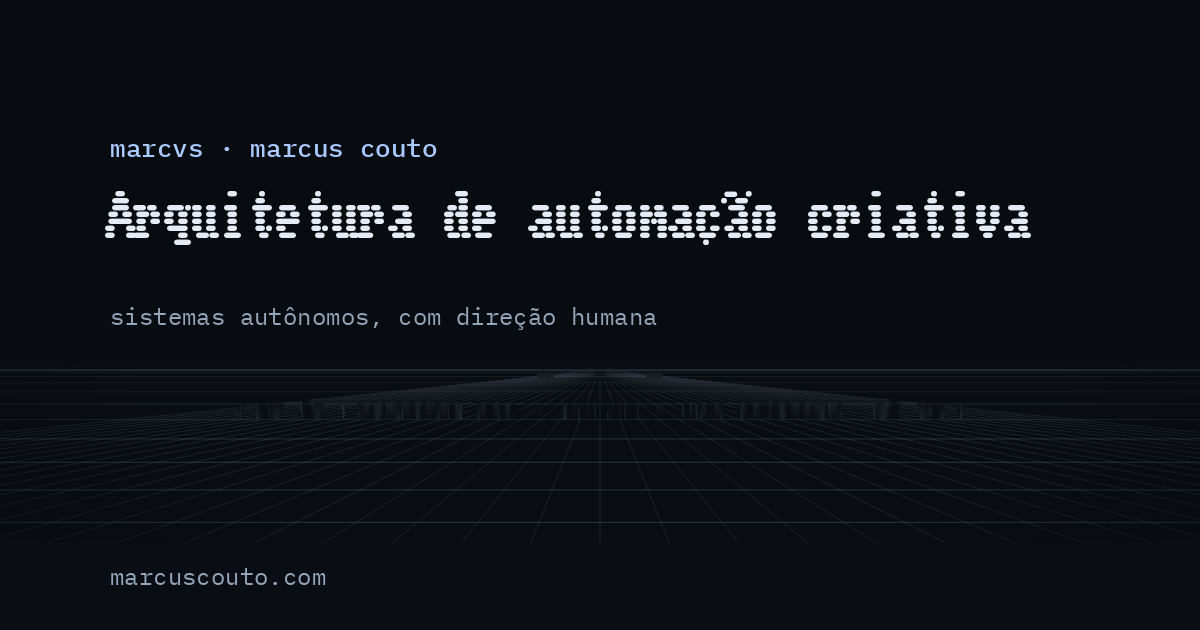
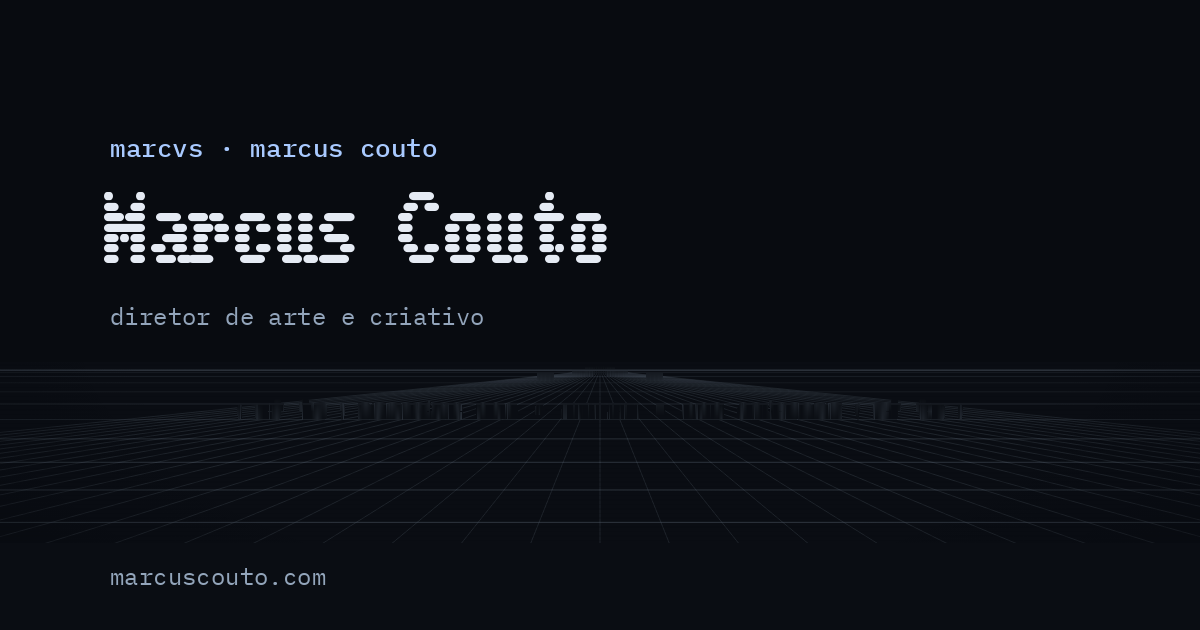
Home com apresentação, seção Projetos e subhome Sistemas
- Home: destaque passa a ser a apresentação ("Sou Marcus Couto, diretor de arte e criativo.")
- Sistemas vira Projetos na home e no menu, com sigilo de engrenagem (animação girando)
- Nova página /sistemas/ com a frase "Arquitetura de automação criativa" e os três sistemas
- og:image da home atualizada e nova para /sistemas/

Claude-Session: https://claude.ai/code/session_01FrUhFbahMPFfCPa88AS5v2

Changed region(s): [[0.0617, 0.3016, 0.8633, 0.4222], [0.0925, 0.4825, 0.555, 0.5127]]

diff --git a/index.html b/index.html
@@ -3,8 +3,8 @@
 <head>
 <meta charset="utf-8">
 <meta name="viewport" content="width=device-width, initial-scale=1">
-<title>Marcus Couto · marcvs — Arquitetura de automação criativa</title>
-<meta name="description" content="Marcus Couto (marcvs): arquitetura de automação criativa. Sistemas autônomos, com direção humana, para times criativos de todos os tamanhos.">
+<title>Marcus Couto · marcvs — Diretor de arte e criativo</title>
+<meta name="description" content="Marcus Couto (marcvs), diretor de arte e criativo. Desenha sistemas de produção com IA e investiga o que sobra para quem dirige quando executar deixa de ser difícil.">
 <meta name="theme-color" content="#080b10">
 <link rel="canonical" href="https://marcuscouto.com/">
 <link rel="alternate" hreflang="pt-BR" href="https://marcuscouto.com/">
@@ -12,8 +12,8 @@
 <meta property="og:locale" content="pt_BR">
 <meta property="og:site_name" content="Marcus Couto">
 <meta property="og:url" content="https://marcuscouto.com/">
-<meta property="og:title" content="Marcus Couto · marcvs — Arquitetura de automação criativa">
-<meta property="og:description" content="Marcus Couto (marcvs): arquitetura de automação criativa. Sistemas autônomos, com direção humana, para times criativos de todos os tamanhos.">
+<meta property="og:title" content="Marcus Couto · marcvs — Diretor de arte e criativo">
+<meta property="og:description" content="Marcus Couto (marcvs), diretor de arte e criativo. Desenha sistemas de produção com IA e investiga o que sobra para quem dirige quando executar deixa de ser difícil.">
 <meta property="og:image" content="https://marcuscouto.com/assets/img/og/home.png">
 <meta property="og:image:width" content="1200">
 <meta property="og:image:height" content="630">
@@ -33,7 +33,10 @@
 <header data-site-header></header>
 <script src="/assets/js/layout.js"></script>
 <main id="main">
-<h1 class="phrase">Arquitetura de automação criativa: sistemas autônomos, com direção humana, para times criativos de todos os tamanhos.</h1>
+<div class="intro">
+  <h1 class="phrase">Sou Marcus Couto, diretor de arte e criativo.</h1>
+  <p class="intro-lead">Desenho sistemas de produção com IA, de jornais que se escrevem sozinhos a séries audiovisuais no UOL, e investigo o que sobra para quem dirige quando executar deixa de ser difícil.</p>
+</div>
 <div class="home-sections">
   <section class="home-section l0" id="pesquisa" aria-labelledby="h-pesquisa">
     <svg class="sigil sigil-pesquisa" viewBox="0 0 78 78" aria-hidden="true" focusable="false" fill="currentColor"><rect x="6.75" y="6.75" width="4.5" height="4.5" style="--d:2.88s"/><rect x="36.75" y="6.75" width="4.5" height="4.5" style="--d:2.88s"/><rect x="66.75" y="6.75" width="4.5" height="4.5" style="--d:2.88s"/><rect x="18.75" y="18.75" width="4.5" height="4.5" style="--d:1.73s"/><rect x="36.75" y="18.75" width="4.5" height="4.5" style="--d:1.73s"/><rect x="54.75" y="18.75" width="4.5" height="4.5" style="--d:1.73s"/><rect x="24.75" y="24.75" width="4.5" height="4.5" style="--d:1.15s"/><rect x="36.75" y="24.75" width="4.5" height="4.5" style="--d:1.15s"/><rect x="48.75" y="24.75" width="4.5" height="4.5" style="--d:1.15s"/><rect x="30.75" y="30.75" width="4.5" height="4.5" style="--d:0.58s"/><rect x="36.75" y="30.75" width="4.5" height="4.5" style="--d:0.58s"/><rect x="42.75" y="30.75" width="4.5" height="4.5" style="--d:0.58s"/><rect x="6.75" y="36.75" width="4.5" height="4.5" style="--d:2.88s"/><rect x="12.75" y="36.75" width="4.5" height="4.5" style="--d:2.30s"/><rect x="24.75" y="36.75" width="4.5" height="4.5" style="--d:1.15s"/><rect x="30.75" y="36.75" width="4.5" height="4.5" style="--d:0.58s"/><rect x="36.75" y="36.75" width="4.5" height="4.5" style="--d:0.00s"/><rect x="42.75" y="36.75" width="4.5" height="4.5" style="--d:0.58s"/><rect x="48.75" y="36.75" width="4.5" height="4.5" style="--d:1.15s"/><rect x="60.75" y="36.75" width="4.5" height="4.5" style="--d:2.30s"/><rect x="66.75" y="36.75" width="4.5" height="4.5" style="--d:2.88s"/><rect x="30.75" y="42.75" width="4.5" height="4.5" style="--d:0.58s"/><rect x="36.75" y="42.75" width="4.5" height="4.5" style="--d:0.58s"/><rect x="42.75" y="42.75" width="4.5" height="4.5" style="--d:0.58s"/><rect x="24.75" y="48.75" width="4.5" height="4.5" style="--d:1.15s"/><rect x="36.75" y="48.75" width="4.5" height="4.5" style="--d:1.15s"/><rect x="48.75" y="48.75" width="4.5" height="4.5" style="--d:1.15s"/><rect x="18.75" y="54.75" width="4.5" height="4.5" style="--d:1.73s"/><rect x="36.75" y="54.75" width="4.5" height="4.5" style="--d:1.73s"/><rect x="54.75" y="54.75" width="4.5" height="4.5" style="--d:1.73s"/><rect x="6.75" y="66.75" width="4.5" height="4.5" style="--d:2.88s"/><rect x="36.75" y="66.75" width="4.5" height="4.5" style="--d:2.88s"/><rect x="66.75" y="66.75" width="4.5" height="4.5" style="--d:2.88s"/></svg>
@@ -50,16 +53,14 @@
       </ul>
     </div>
   </section>
-  <section class="home-section l1" id="sistemas" aria-labelledby="h-sistemas">
-    <svg class="sigil sigil-sistemas" viewBox="0 0 78 78" aria-hidden="true" focusable="false" fill="currentColor"><rect x="30.75" y="6.75" width="4.5" height="4.5" style="--d:0.00s"/><rect x="36.75" y="6.75" width="4.5" height="4.5" style="--d:0.00s"/><rect x="42.75" y="6.75" width="4.5" height="4.5" style="--d:0.00s"/><rect x="30.75" y="12.75" width="4.5" height="4.5" style="--d:0.32s"/><rect x="36.75" y="12.75" width="4.5" height="4.5" style="--d:0.32s"/><rect x="42.75" y="12.75" width="4.5" height="4.5" style="--d:0.32s"/><rect x="30.75" y="18.75" width="4.5" height="4.5" style="--d:0.64s"/><rect x="36.75" y="18.75" width="4.5" height="4.5" style="--d:0.64s"/><rect x="42.75" y="18.75" width="4.5" height="4.5" style="--d:0.64s"/><rect x="24.75" y="24.75" width="4.5" height="4.5" style="--d:0.96s"/><rect x="48.75" y="24.75" width="4.5" height="4.5" style="--d:0.96s"/><rect x="18.75" y="30.75" width="4.5" height="4.5" style="--d:1.28s"/><rect x="54.75" y="30.75" width="4.5" height="4.5" style="--d:1.28s"/><rect x="12.75" y="36.75" width="4.5" height="4.5" style="--d:1.60s"/><rect x="60.75" y="36.75" width="4.5" height="4.5" style="--d:1.60s"/><rect x="6.75" y="42.75" width="4.5" height="4.5" style="--d:1.92s"/><rect x="66.75" y="42.75" width="4.5" height="4.5" style="--d:1.92s"/><rect x="0.75" y="48.75" width="4.5" height="4.5" style="--d:2.24s"/><rect x="6.75" y="48.75" width="4.5" height="4.5" style="--d:2.24s"/><rect x="12.75" y="48.75" width="4.5" height="4.5" style="--d:2.24s"/><rect x="60.75" y="48.75" width="4.5" height="4.5" style="--d:2.24s"/><rect x="66.75" y="48.75" width="4.5" height="4.5" style="--d:2.24s"/><rect x="72.75" y="48.75" width="4.5" height="4.5" style="--d:2.24s"/><rect x="0.75" y="54.75" width="4.5" height="4.5" style="--d:2.56s"/><rect x="6.75" y="54.75" width="4.5" height="4.5" style="--d:2.56s"/><rect x="12.75" y="54.75" width="4.5" height="4.5" style="--d:2.56s"/><rect x="60.75" y="54.75" width="4.5" height="4.5" style="--d:2.56s"/><rect x="66.75" y="54.75" width="4.5" height="4.5" style="--d:2.56s"/><rect x="72.75" y="54.75" width="4.5" height="4.5" style="--d:2.56s"/><rect x="0.75" y="60.75" width="4.5" height="4.5" style="--d:2.88s"/><rect x="6.75" y="60.75" width="4.5" height="4.5" style="--d:2.88s"/><rect x="12.75" y="60.75" width="4.5" height="4.5" style="--d:2.88s"/><rect x="60.75" y="60.75" width="4.5" height="4.5" style="--d:2.88s"/><rect x="66.75" y="60.75" width="4.5" height="4.5" style="--d:2.88s"/><rect x="72.75" y="60.75" width="4.5" height="4.5" style="--d:2.88s"/></svg>
+  <section class="home-section l1" id="projetos" aria-labelledby="h-projetos">
+    <svg class="sigil sigil-projetos" viewBox="0 0 78 78" aria-hidden="true" focusable="false" fill="currentColor"><rect x="36.75" y="0.75" width="4.5" height="4.5" style="--d:1.08s"/><rect x="30.75" y="6.75" width="4.5" height="4.5" style="--d:0.94s"/><rect x="36.75" y="6.75" width="4.5" height="4.5" style="--d:1.08s"/><rect x="42.75" y="6.75" width="4.5" height="4.5" style="--d:1.22s"/><rect x="12.75" y="12.75" width="4.5" height="4.5" style="--d:0.54s"/><rect x="18.75" y="12.75" width="4.5" height="4.5" style="--d:0.64s"/><rect x="30.75" y="12.75" width="4.5" height="4.5" style="--d:0.91s"/><rect x="36.75" y="12.75" width="4.5" height="4.5" style="--d:1.08s"/><rect x="42.75" y="12.75" width="4.5" height="4.5" style="--d:1.25s"/><rect x="54.75" y="12.75" width="4.5" height="4.5" style="--d:1.52s"/><rect x="60.75" y="12.75" width="4.5" height="4.5" style="--d:1.62s"/><rect x="12.75" y="18.75" width="4.5" height="4.5" style="--d:0.44s"/><rect x="18.75" y="18.75" width="4.5" height="4.5" style="--d:0.54s"/><rect x="24.75" y="18.75" width="4.5" height="4.5" style="--d:0.68s"/><rect x="30.75" y="18.75" width="4.5" height="4.5" style="--d:0.86s"/><rect x="36.75" y="18.75" width="4.5" height="4.5" style="--d:1.08s"/><rect x="42.75" y="18.75" width="4.5" height="4.5" style="--d:1.30s"/><rect x="48.75" y="18.75" width="4.5" height="4.5" style="--d:1.48s"/><rect x="54.75" y="18.75" width="4.5" height="4.5" style="--d:1.62s"/><rect x="60.75" y="18.75" width="4.5" height="4.5" style="--d:1.72s"/><rect x="18.75" y="24.75" width="4.5" height="4.5" style="--d:0.40s"/><rect x="54.75" y="24.75" width="4.5" height="4.5" style="--d:1.76s"/><rect x="6.75" y="30.75" width="4.5" height="4.5" style="--d:0.14s"/><rect x="12.75" y="30.75" width="4.5" height="4.5" style="--d:0.17s"/><rect x="18.75" y="30.75" width="4.5" height="4.5" style="--d:0.22s"/><rect x="54.75" y="30.75" width="4.5" height="4.5" style="--d:1.94s"/><rect x="60.75" y="30.75" width="4.5" height="4.5" style="--d:1.99s"/><rect x="66.75" y="30.75" width="4.5" height="4.5" style="--d:2.02s"/><rect x="0.75" y="36.75" width="4.5" height="4.5" style="--d:4.32s"/><rect x="6.75" y="36.75" width="4.5" height="4.5" style="--d:4.32s"/><rect x="12.75" y="36.75" width="4.5" height="4.5" style="--d:4.32s"/><rect x="18.75" y="36.75" width="4.5" height="4.5" style="--d:4.32s"/><rect x="36.75" y="36.75" width="4.5" height="4.5" style="--d:0.00s"/><rect x="54.75" y="36.75" width="4.5" height="4.5" style="--d:2.16s"/><rect x="60.75" y="36.75" width="4.5" height="4.5" style="--d:2.16s"/><rect x="66.75" y="36.75" width="4.5" height="4.5" style="--d:2.16s"/><rect x="72.75" y="36.75" width="4.5" height="4.5" style="--d:2.16s"/><rect x="6.75" y="42.75" width="4.5" height="4.5" style="--d:4.18s"/><rect x="12.75" y="42.75" width="4.5" height="4.5" style="--d:4.15s"/><rect x="18.75" y="42.75" width="4.5" height="4.5" style="--d:4.10s"/><rect x="54.75" y="42.75" width="4.5" height="4.5" style="--d:2.38s"/><rect x="60.75" y="42.75" width="4.5" height="4.5" style="--d:2.33s"/><rect x="66.75" y="42.75" width="4.5" height="4.5" style="--d:2.30s"/><rect x="18.75" y="48.75" width="4.5" height="4.5" style="--d:3.92s"/><rect x="54.75" y="48.75" width="4.5" height="4.5" style="--d:2.56s"/><rect x="12.75" y="54.75" width="4.5" height="4.5" style="--d:3.88s"/><rect x="18.75" y="54.75" width="4.5" height="4.5" style="--d:3.78s"/><rect x="24.75" y="54.75" width="4.5" height="4.5" style="--d:3.64s"/><rect x="30.75" y="54.75" width="4.5" height="4.5" style="--d:3.46s"/><rect x="36.75" y="54.75" width="4.5" height="4.5" style="--d:3.24s"/><rect x="42.75" y="54.75" width="4.5" height="4.5" style="--d:3.02s"/><rect x="48.75" y="54.75" width="4.5" height="4.5" style="--d:2.84s"/><rect x="54.75" y="54.75" width="4.5" height="4.5" style="--d:2.70s"/><rect x="60.75" y="54.75" width="4.5" height="4.5" style="--d:2.60s"/><rect x="12.75" y="60.75" width="4.5" height="4.5" style="--d:3.78s"/><rect x="18.75" y="60.75" width="4.5" height="4.5" style="--d:3.68s"/><rect x="30.75" y="60.75" width="4.5" height="4.5" style="--d:3.41s"/><rect x="36.75" y="60.75" width="4.5" height="4.5" style="--d:3.24s"/><rect x="42.75" y="60.75" width="4.5" height="4.5" style="--d:3.07s"/><rect x="54.75" y="60.75" width="4.5" height="4.5" style="--d:2.80s"/><rect x="60.75" y="60.75" width="4.5" height="4.5" style="--d:2.70s"/><rect x="30.75" y="66.75" width="4.5" height="4.5" style="--d:3.38s"/><rect x="36.75" y="66.75" width="4.5" height="4.5" style="--d:3.24s"/><rect x="42.75" y="66.75" width="4.5" height="4.5" style="--d:3.10s"/><rect x="36.75" y="72.75" width="4.5" height="4.5" style="--d:3.24s"/></svg>
     <div>
-      <span class="path">/sistemas · −38m</span>
-      <h2 id="h-sistemas"><span class="stratum-label" data-glitch="hover">Sistemas</span></h2>
-      <p class="sub">prensa autômata · zombiebasilisk · uol</p>
+      <span class="path">/projetos · −38m</span>
+      <h2 id="h-projetos"><span class="stratum-label" data-glitch="hover">Projetos</span></h2>
+      <p class="sub">sistemas</p>
       <ul class="items">
-      <li><a href="/sistemas/prensa-automata/">Prensa Autômata</a></li>
-      <li><a href="/sistemas/zombiebasilisk/">ZOMBIEBASILISK</a></li>
-      <li><a href="/sistemas/uol/">UOL</a></li>
+      <li><a href="/sistemas/">Sistemas</a><ul class="items items-sub"><li><a href="/sistemas/prensa-automata/">Prensa Autômata</a></li><li><a href="/sistemas/zombiebasilisk/">ZOMBIEBASILISK</a></li><li><a href="/sistemas/uol/">UOL</a></li></ul></li>
       </ul>
     </div>
   </section>

diff --git a/sistemas/index.html b/sistemas/index.html
@@ -1,0 +1,54 @@
+<!doctype html>
+<html lang="pt-BR">
+<head>
+<meta charset="utf-8">
+<meta name="viewport" content="width=device-width, initial-scale=1">
+<title>Sistemas — Marcus Couto</title>
+<meta name="description" content="Arquitetura de automação criativa: sistemas autônomos, com direção humana, para times criativos de todos os tamanhos. Prensa Autômata, ZOMBIEBASILISK e UOL.">
+<meta name="theme-color" content="#080b10">
+<link rel="canonical" href="https://marcuscouto.com/sistemas/">
+<link rel="alternate" hreflang="pt-BR" href="https://marcuscouto.com/sistemas/">
+<meta property="og:type" content="website">
+<meta property="og:locale" content="pt_BR">
+<meta property="og:site_name" content="Marcus Couto">
+<meta property="og:url" content="https://marcuscouto.com/sistemas/">
+<meta property="og:title" content="Sistemas — Marcus Couto">
+<meta property="og:description" content="Arquitetura de automação criativa: sistemas autônomos, com direção humana, para times criativos de todos os tamanhos. Prensa Autômata, ZOMBIEBASILISK e UOL.">
+<meta property="og:image" content="https://marcuscouto.com/assets/img/og/sistemas.png">
+<meta property="og:image:width" content="1200">
+<meta property="og:image:height" content="630">
+<meta name="twitter:card" content="summary_large_image">
+<link rel="icon" href="/favicon.ico" sizes="any">
+<link rel="icon" type="image/png" href="/assets/img/favicon-32.png" sizes="32x32">
+<link rel="apple-touch-icon" href="/apple-touch-icon.png">
+<link rel="preconnect" href="https://fonts.googleapis.com">
+<link rel="preconnect" href="https://fonts.gstatic.com" crossorigin>
+<link href="https://fonts.googleapis.com/css2?family=Doto:wght@900&family=IBM+Plex+Mono:wght@300;400;500&family=Workbench:BLED,SCAN@0..100,-53..100&display=swap" rel="stylesheet">
+<link rel="stylesheet" href="/assets/css/tokens.css">
+<link rel="stylesheet" href="/assets/css/base.css">
+</head>
+<body>
+<a class="skip-link" href="#main">Pular para o conteúdo</a>
+<div id="page" class="shell">
+<header data-site-header></header>
+<script src="/assets/js/layout.js"></script>
+<main id="main">
+<header class="page-head">
+  <div class="title-row"><svg class="sigil sigil-sistemas" viewBox="0 0 78 78" aria-hidden="true" focusable="false" fill="currentColor"><rect x="30.75" y="6.75" width="4.5" height="4.5" style="--d:0.00s"/><rect x="36.75" y="6.75" width="4.5" height="4.5" style="--d:0.00s"/><rect x="42.75" y="6.75" width="4.5" height="4.5" style="--d:0.00s"/><rect x="30.75" y="12.75" width="4.5" height="4.5" style="--d:0.32s"/><rect x="36.75" y="12.75" width="4.5" height="4.5" style="--d:0.32s"/><rect x="42.75" y="12.75" width="4.5" height="4.5" style="--d:0.32s"/><rect x="30.75" y="18.75" width="4.5" height="4.5" style="--d:0.64s"/><rect x="36.75" y="18.75" width="4.5" height="4.5" style="--d:0.64s"/><rect x="42.75" y="18.75" width="4.5" height="4.5" style="--d:0.64s"/><rect x="24.75" y="24.75" width="4.5" height="4.5" style="--d:0.96s"/><rect x="48.75" y="24.75" width="4.5" height="4.5" style="--d:0.96s"/><rect x="18.75" y="30.75" width="4.5" height="4.5" style="--d:1.28s"/><rect x="54.75" y="30.75" width="4.5" height="4.5" style="--d:1.28s"/><rect x="12.75" y="36.75" width="4.5" height="4.5" style="--d:1.60s"/><rect x="60.75" y="36.75" width="4.5" height="4.5" style="--d:1.60s"/><rect x="6.75" y="42.75" width="4.5" height="4.5" style="--d:1.92s"/><rect x="66.75" y="42.75" width="4.5" height="4.5" style="--d:1.92s"/><rect x="0.75" y="48.75" width="4.5" height="4.5" style="--d:2.24s"/><rect x="6.75" y="48.75" width="4.5" height="4.5" style="--d:2.24s"/><rect x="12.75" y="48.75" width="4.5" height="4.5" style="--d:2.24s"/><rect x="60.75" y="48.75" width="4.5" height="4.5" style="--d:2.24s"/><rect x="66.75" y="48.75" width="4.5" height="4.5" style="--d:2.24s"/><rect x="72.75" y="48.75" width="4.5" height="4.5" style="--d:2.24s"/><rect x="0.75" y="54.75" width="4.5" height="4.5" style="--d:2.56s"/><rect x="6.75" y="54.75" width="4.5" height="4.5" style="--d:2.56s"/><rect x="12.75" y="54.75" width="4.5" height="4.5" style="--d:2.56s"/><rect x="60.75" y="54.75" width="4.5" height="4.5" style="--d:2.56s"/><rect x="66.75" y="54.75" width="4.5" height="4.5" style="--d:2.56s"/><rect x="72.75" y="54.75" width="4.5" height="4.5" style="--d:2.56s"/><rect x="0.75" y="60.75" width="4.5" height="4.5" style="--d:2.88s"/><rect x="6.75" y="60.75" width="4.5" height="4.5" style="--d:2.88s"/><rect x="12.75" y="60.75" width="4.5" height="4.5" style="--d:2.88s"/><rect x="60.75" y="60.75" width="4.5" height="4.5" style="--d:2.88s"/><rect x="66.75" y="60.75" width="4.5" height="4.5" style="--d:2.88s"/><rect x="72.75" y="60.75" width="4.5" height="4.5" style="--d:2.88s"/></svg><h1><span data-glitch="hover">Sistemas</span></h1></div>
+  <p class="statement">Arquitetura de automação criativa: sistemas autônomos, com direção humana, para times criativos de todos os tamanhos.</p>
+</header>
+<section class="section" aria-label="Sistemas">
+  <ul class="entries">
+  <li class="entry"><a href="/sistemas/prensa-automata/">Prensa Autômata</a><span class="meta">jornal diário produzido por IA</span></li>
+  <li class="entry"><a href="/sistemas/zombiebasilisk/">ZOMBIEBASILISK</a><span class="meta">horror e found-footage com IA · desde fev/2025</span></li>
+  <li class="entry"><a href="/sistemas/uol/">UOL</a><span class="meta">séries audiovisuais com IA · desde set/2025</span></li>
+  </ul>
+</section>
+</main>
+<footer data-site-footer></footer>
+</div>
+<script src="/assets/js/ambient.js" defer></script>
+
+<script data-goatcounter="https://marcvs.goatcounter.com/count" async src="//gc.zgo.at/count.js"></script>
+</body>
+</html>

diff --git a/assets/css/base.css b/assets/css/base.css
@@ -86,7 +86,10 @@ main { display: block; }
 .links-row { display: flex; flex-wrap: wrap; gap: var(--space-1) var(--space-4); margin-top: var(--space-4); }
 
 /* ---- home ---- */
-.phrase { max-width: 24ch; margin: 0; padding: var(--space-6) 0 var(--space-5); font: 400 var(--fs-phrase)/1.25 var(--font-title); color: var(--ink); }
+.intro { padding: var(--space-6) 0 var(--space-5); }
+.intro-lead { max-width: 62ch; margin: var(--space-4) 0 0; color: var(--ink-2); font-size: var(--fs-l); line-height: 1.75; }
+.statement { max-width: 30ch; margin: var(--space-4) 0 0; font: 400 var(--fs-title-section)/1.3 var(--font-title); color: var(--ink-2); }
+.phrase { max-width: 24ch; margin: 0; padding: 0; font: 400 var(--fs-phrase)/1.25 var(--font-title); color: var(--ink); }
 .home-sections { border-top: 1px solid var(--rule); }
 .home-section { display: grid; grid-template-columns: 96px minmax(0, 1fr); gap: var(--space-4); padding: var(--space-4) 0; border-bottom: 1px solid var(--rule); scroll-margin-top: 24px; }
 .home-section .sigil { width: 78px; height: 78px; margin-top: 6px; }
@@ -110,11 +113,15 @@ main { display: block; }
 .items li::before { content: "├─ "; color: var(--rule); }
 .items li:last-child::before { content: "└─ "; }
 .items a { color: var(--ink-2); text-decoration: none; }
+.items-sub { margin: 4px 0 0; }
+.items-sub li::before { content: "├─ "; }
+.items-sub li:last-child::before { content: "└─ "; }
 .items a:hover { color: var(--accent); }
 .items .note { color: var(--ink-soft); font-size: var(--fs-s); }
 
 /* ---- lista de textos (pesquisa, literatura) ---- */
 .entries { list-style: none; margin: 0; padding: 0; border-top: 1px solid var(--rule); }
+.page-head + .section > .entries:first-child { margin-top: calc(-1 * var(--space-5)); border-top: 0; }
 .entry { display: grid; grid-template-columns: minmax(0, 1fr) auto; gap: var(--space-1) var(--space-4); align-items: baseline; padding: var(--space-3) 0; border-bottom: 1px solid var(--rule); }
 .entry a, .entry .title { color: var(--ink); text-decoration: none; font-weight: 500; }
 .entry a:hover { color: var(--accent); }

diff --git a/assets/js/layout.js b/assets/js/layout.js
@@ -5,7 +5,7 @@
 
   var NAV = [
     { href: '/pesquisa/', label: 'Pesquisa', match: /^\/pesquisa\// },
-    { href: '/#sistemas', label: 'Sistemas', match: /^\/sistemas\// },
+    { href: '/#projetos', label: 'Projetos', match: /^\/sistemas\// },
     { href: '/poetica/', label: 'Poética', match: /^\/poetica\// },
     { href: '/fale-comigo/', label: 'Fale comigo', match: /^\/fale-comigo\// }
   ];

diff --git a/README.md b/README.md
@@ -7,6 +7,7 @@ Portfólio unificado de Marcus Couto (marcvs). Site estático no GitHub Pages: s
 ```
 /                               index.html (home)
 /pesquisa/                      pesquisa/index.html
+/sistemas/                      sistemas/index.html (subhome de Sistemas, dentro de Projetos)
 /sistemas/prensa-automata/      sistemas/prensa-automata/index.html
 /sistemas/zombiebasilisk/       sistemas/zombiebasilisk/index.html
 /sistemas/uol/                  sistemas/uol/index.html
@@ -77,12 +78,13 @@ Todos os pares de texto e fundo passam de 6,9:1 (AA exige 4,5:1).
 
 ### Sigilos e estratos
 
-Cada seção tem um sigilo em pixel (SVG embutido, cor `--accent`): estrela em expansão (Pesquisa), rede de nós (Sistemas), espiral quadrada (Poética e Som) e elo (Fale comigo). Eles aparecem na lista da home e ao lado do título de cada página. Os desenhos são grades de 13×13 (`#` = pixel aceso); para alterar um sigilo, edite o `<svg class="sigil">` correspondente.
+Cada seção tem um sigilo em pixel (SVG embutido, cor `--accent`): estrela em expansão (Pesquisa), engrenagem (Projetos), rede de nós (Sistemas), espiral quadrada (Poética e Som) e elo (Fale comigo). Eles aparecem na lista da home e ao lado do título de cada página. Os desenhos são grades de 13×13 (`#` = pixel aceso); para alterar um sigilo, edite o `<svg class="sigil">` correspondente.
 
 Cada sigilo tem uma animação lenta de brilho (4,8s por ciclo). O atraso de cada pixel fica na variável `--d` do próprio `<rect>`:
 - estrela: onda do centro para fora;
 - rede: sinal descendo dos nós de cima para os de baixo;
 - espiral: luz percorrendo o caminho;
+- engrenagem: luz girando em volta do eixo;
 - elo: os dois elos respiram alternados.
 
 Com "reduzir movimento" ativado, a animação fica desligada.
